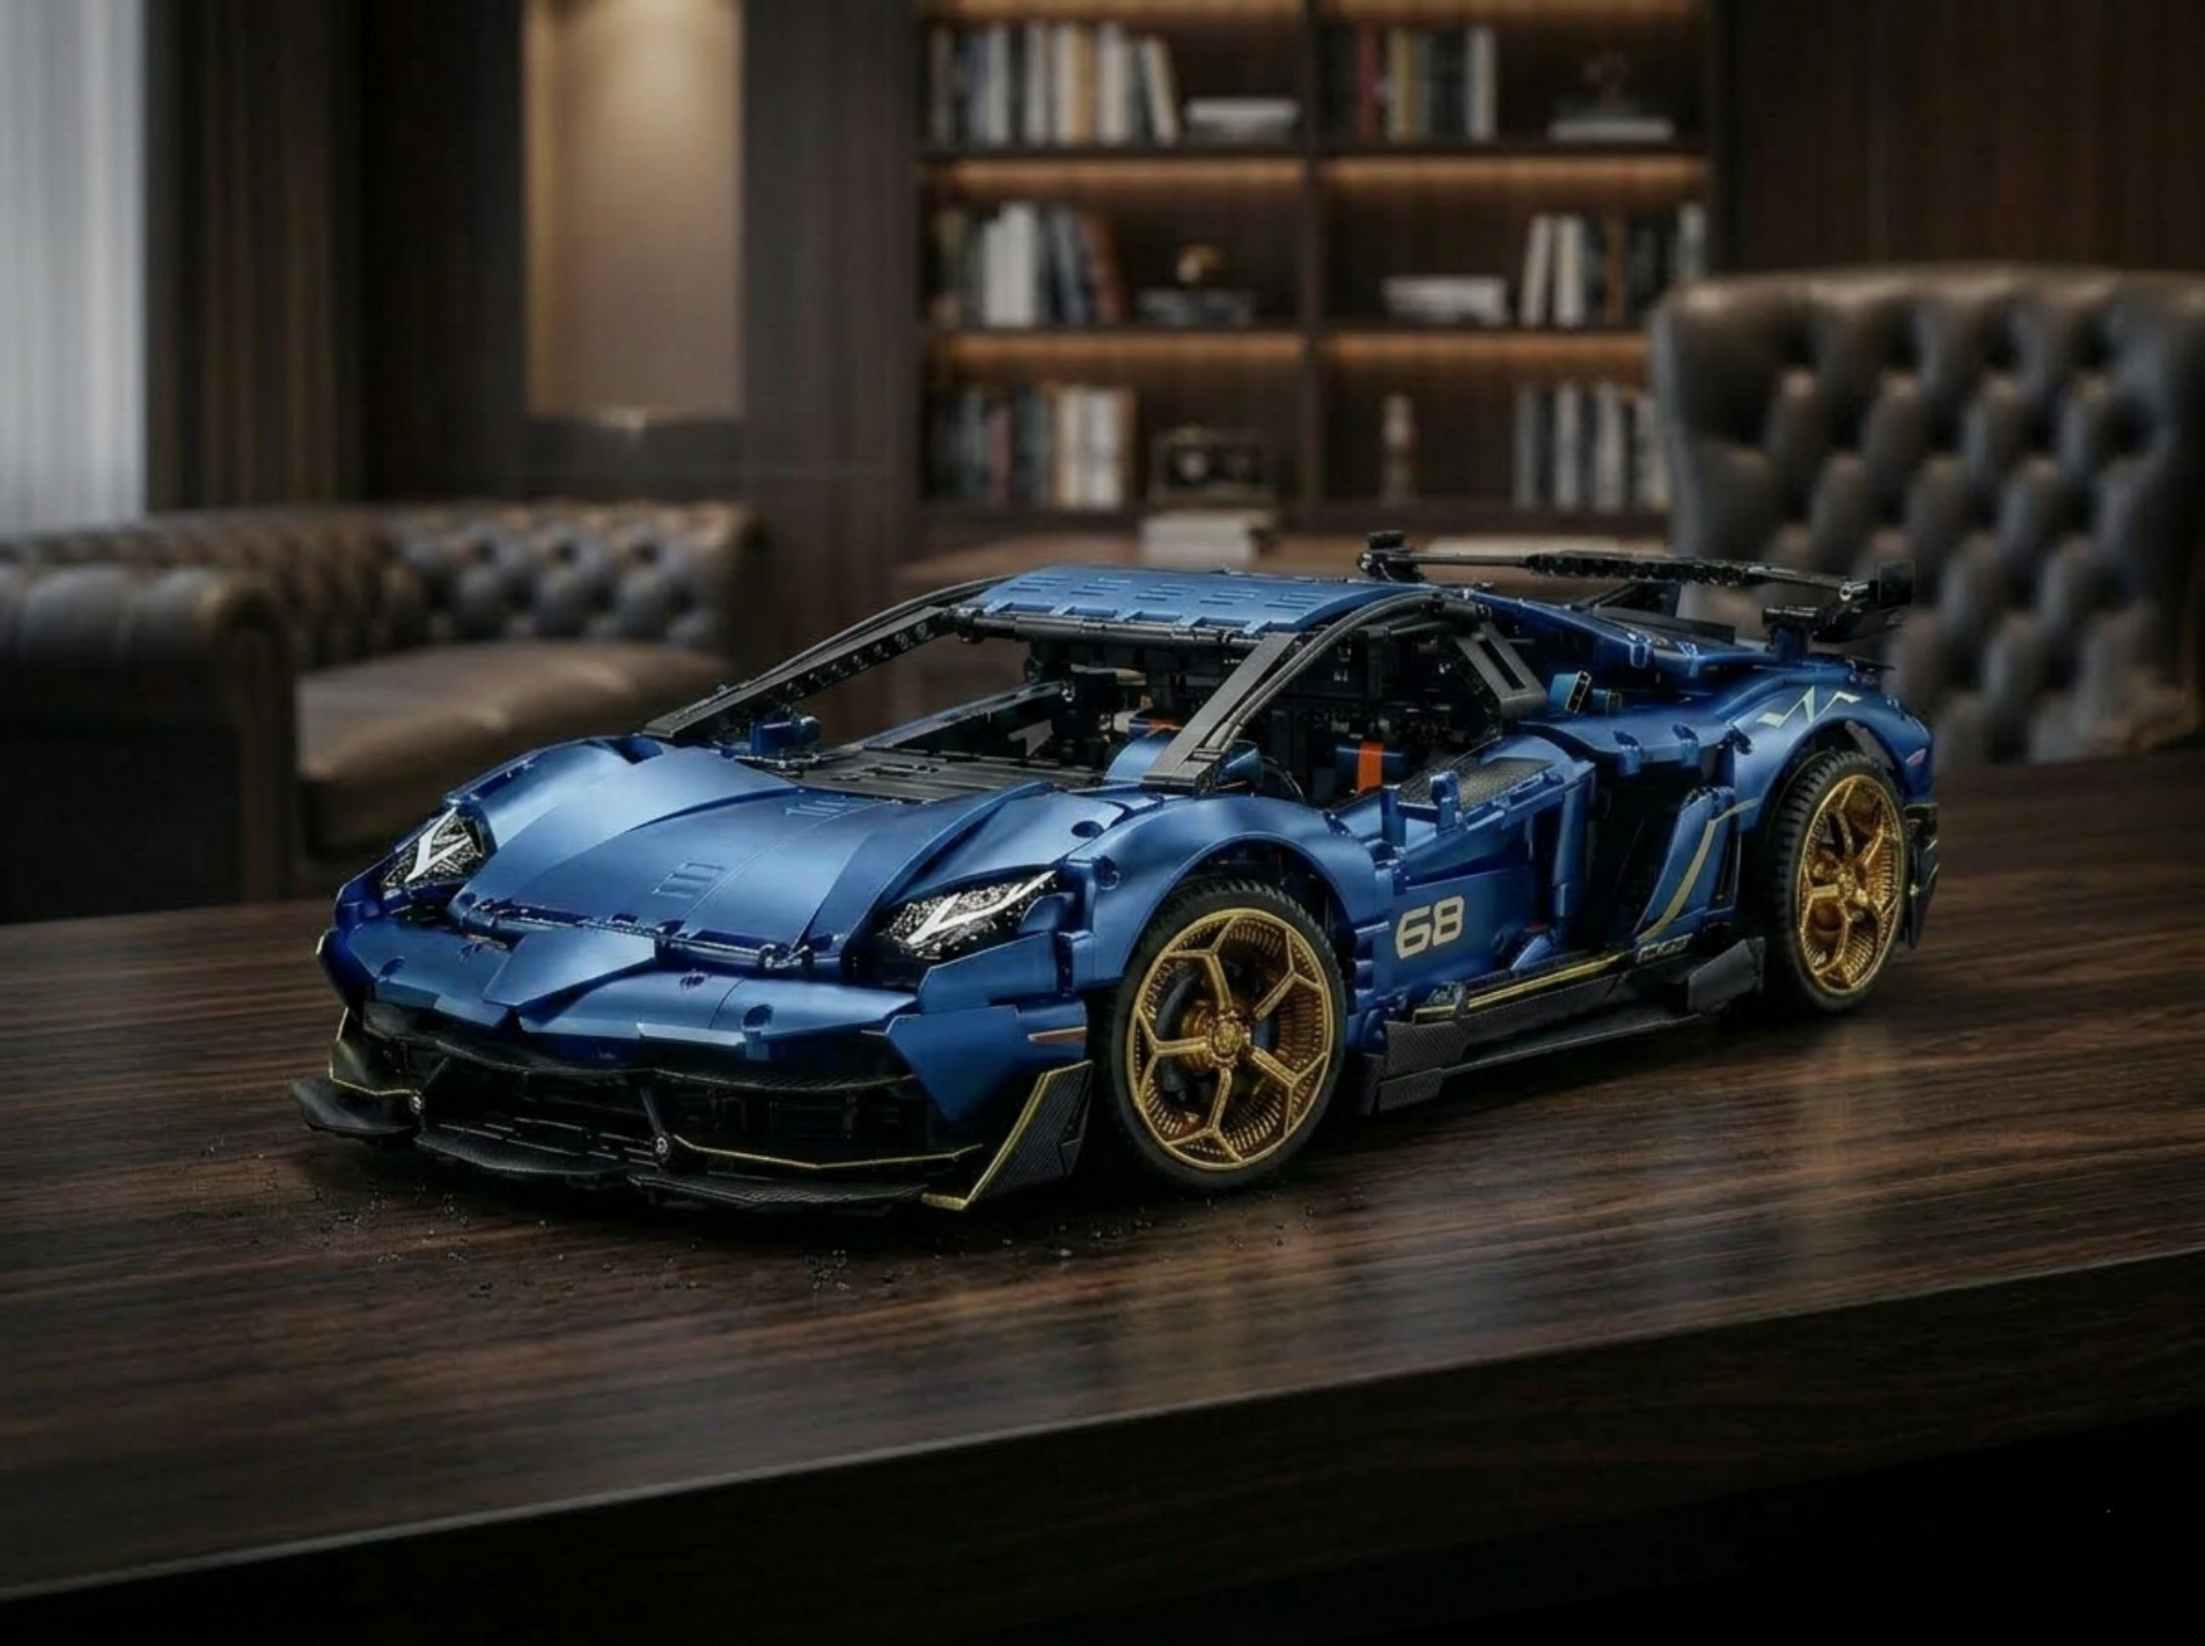
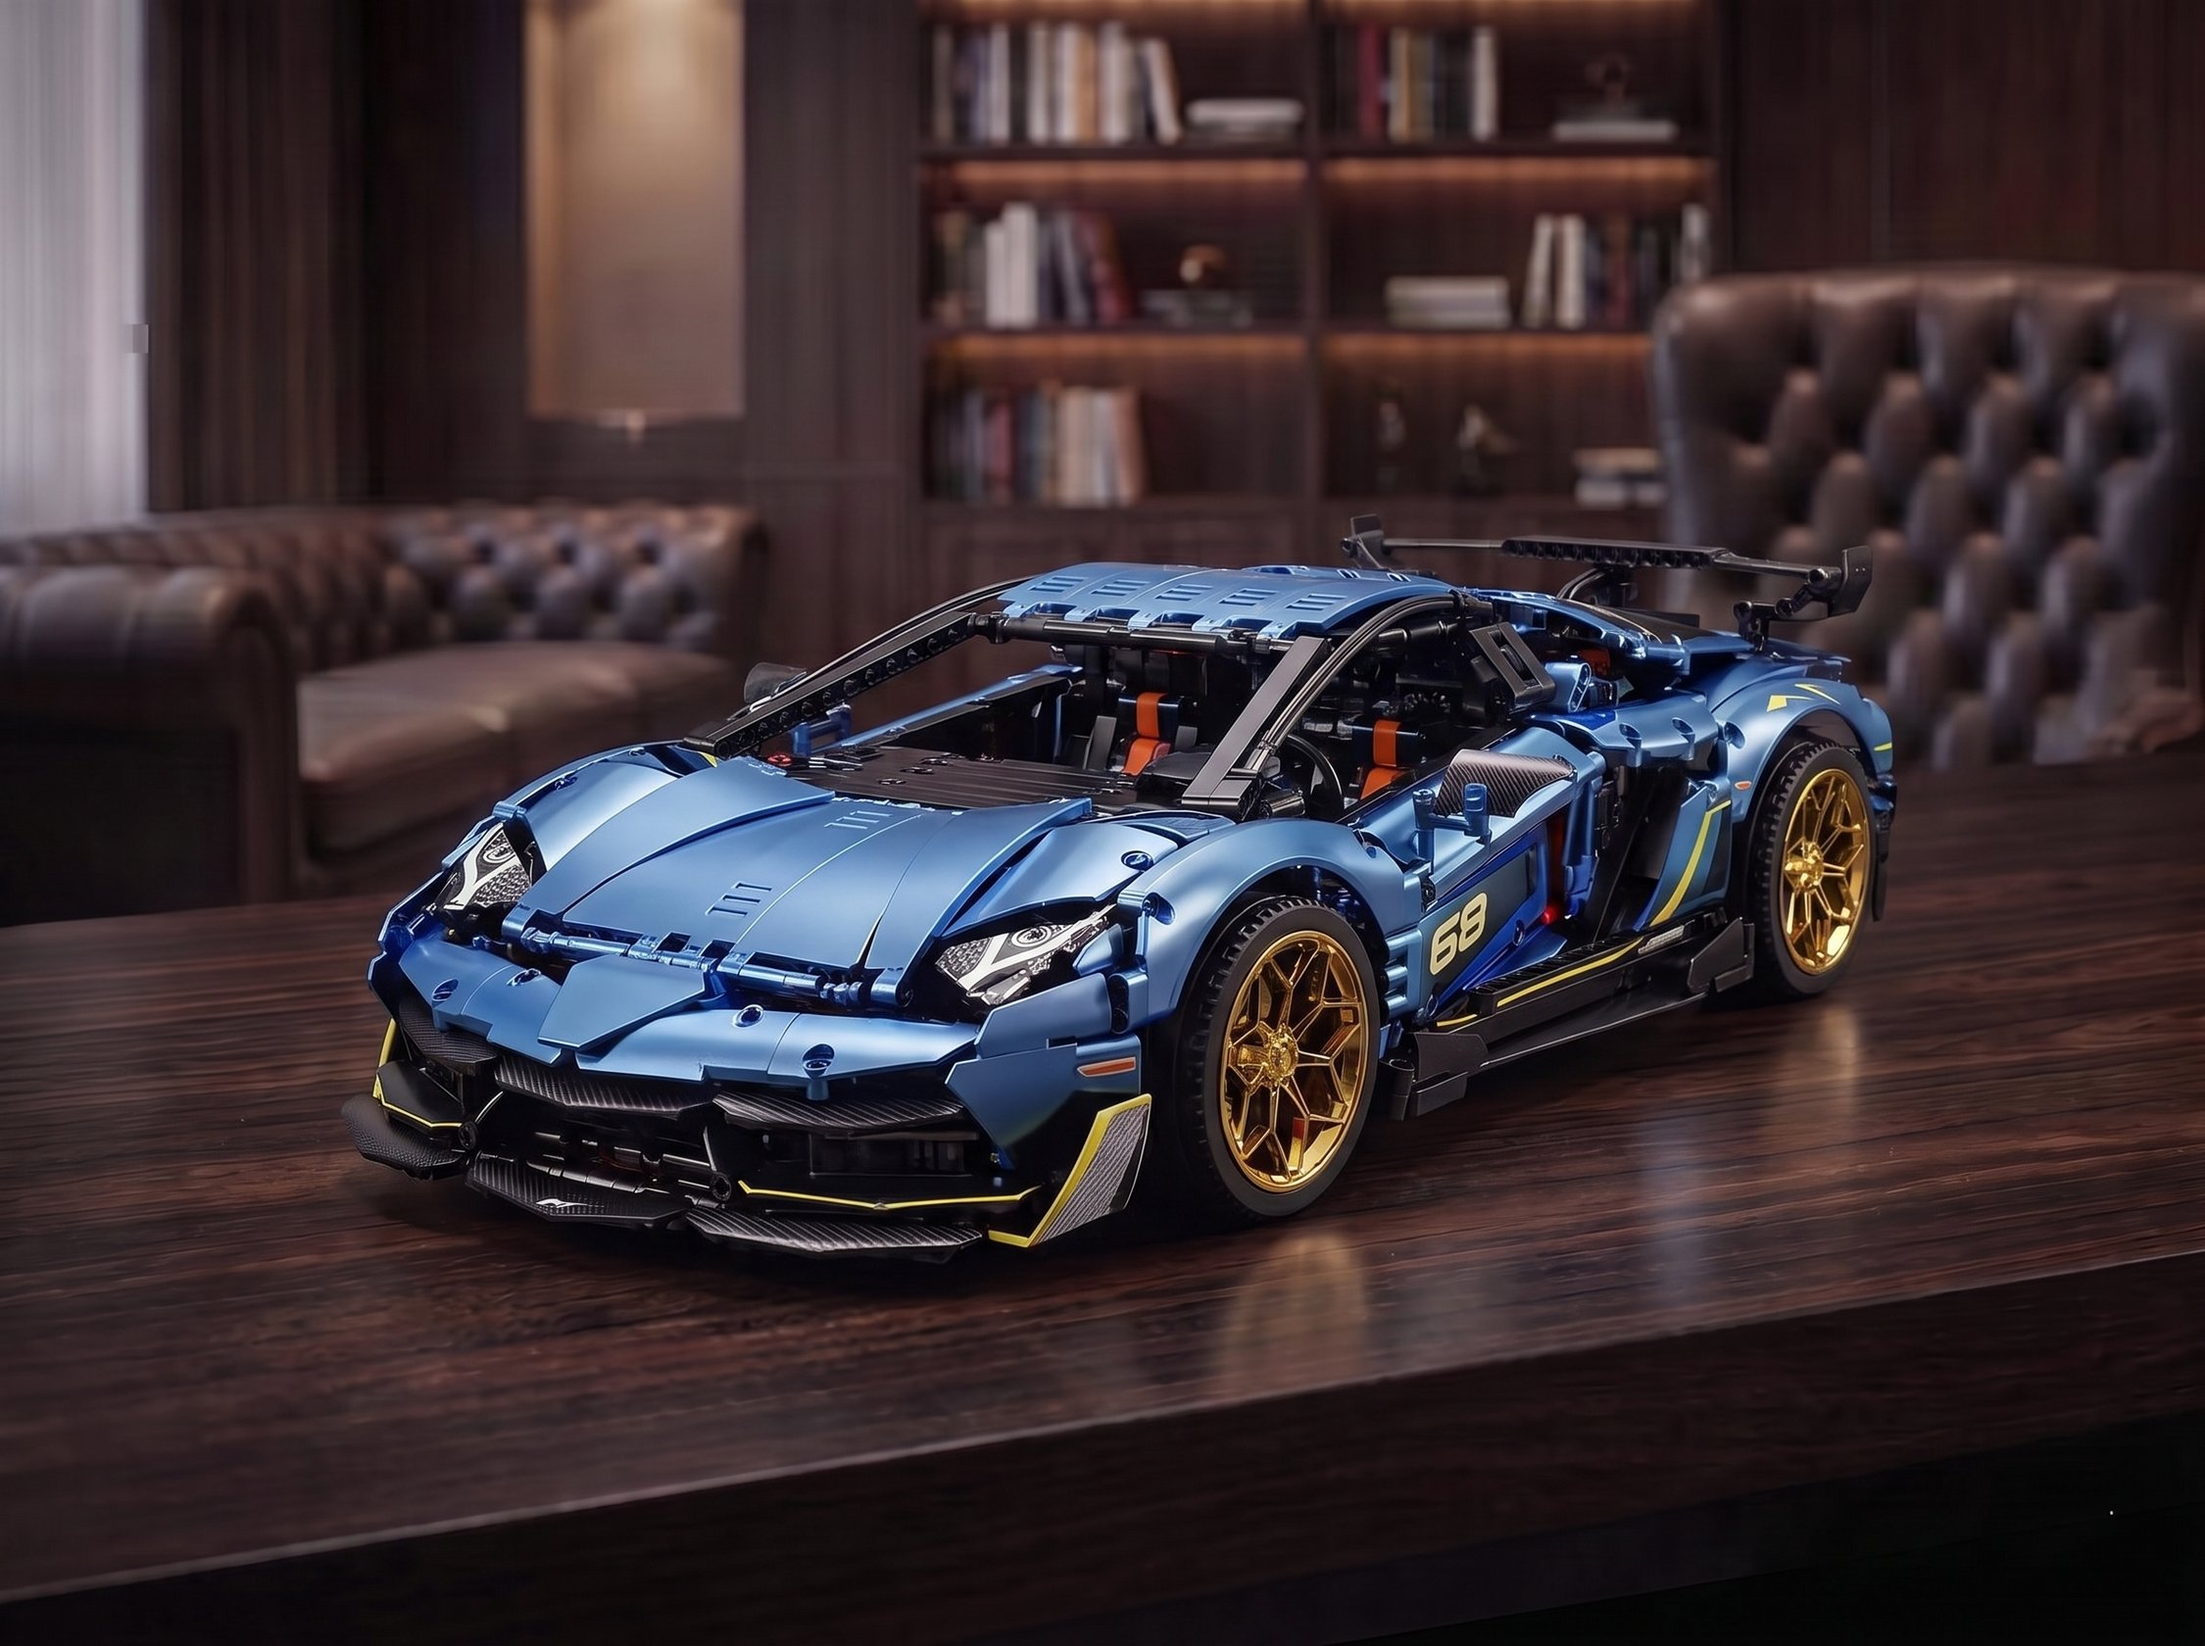
Replace S18-017 cover and add gallery photos
User approved only the front/rear/motor shots out of the batch and
asked for the new front render to become the cover; the old side and
box shots (box came from a 220x220 source) were dropped. This closes
out the last product in the catalog gallery project — all 17 SKUs now
have a correct cover and gallery.

diff --git a/site/src/lib/mockCatalog.ts b/site/src/lib/mockCatalog.ts
@@ -17,5 +17,5 @@ export const mockCatalog: CatalogProduct[] = [
   { id: 'S18-014', sku: 'S18-014', name: 'Ferrari Enzo', category: 'carro', brand_model: 'Ferrari Enzo', manufacturer: 'KBOX', collection_tag: 'Supercarro', scale: '1:8', piece_count: 4301, sale_price_brl: 1656.7, image_url: '/products/S18-014.jpg', image_urls: ['/products/S18-014-aberto.jpg', '/products/S18-014-motor.jpg', '/products/S18-014-caixa.jpg'], video_url: 'https://otlzxteecaxaolhmwmsc.supabase.co/storage/v1/object/public/product-videos/S18-014-video.mp4', automotive_history: null, dimensions: null, spec_highlights: null, length_cm: null, height_cm: null, width_cm: null, quantity_available: 9 },
   { id: 'S18-015', sku: 'S18-015', name: 'Ferrari SF90 XX Stradale', category: 'carro', brand_model: 'Ferrari SF90 XX', manufacturer: 'GULY', collection_tag: 'Supercarro', scale: '1:8', piece_count: 3639, sale_price_brl: 1564.4, image_url: '/products/S18-015.jpg', image_urls: ['/products/S18-015-frente.jpg', '/products/S18-015-lateral.jpg', '/products/S18-015-traseira.jpg', '/products/S18-015-aberto.jpg'], video_url: null, automotive_history: null, dimensions: null, spec_highlights: null, length_cm: null, height_cm: null, width_cm: null, quantity_available: 20 },
   { id: 'S18-016', sku: 'S18-016', name: 'Land Rover Discovery', category: 'carro', brand_model: 'Land Rover Discovery', manufacturer: 'GULY', collection_tag: 'Off Road', scale: '1:8', piece_count: 4817, sale_price_brl: 2072.0, image_url: '/products/S18-016.jpg', image_urls: ['/products/S18-016-frente.jpg', '/products/S18-016-lateral.jpg', '/products/S18-016-traseira.jpg', '/products/S18-016-detalhe.jpg', '/products/S18-016-caixa.jpg'], video_url: null, automotive_history: null, dimensions: null, spec_highlights: null, length_cm: null, height_cm: null, width_cm: null, quantity_available: 15 },
-  { id: 'S18-017', sku: 'S18-017', name: 'Lamborghini Aventador SVJ', category: 'carro', brand_model: 'Lamborghini Aventador SVJ', manufacturer: 'KBOX', collection_tag: 'Supercarro', scale: '1:8', piece_count: 3811, sale_price_brl: 1656.7, image_url: '/products/S18-017.jpg', image_urls: [], video_url: 'https://otlzxteecaxaolhmwmsc.supabase.co/storage/v1/object/public/product-videos/S18-017-video.mp4', automotive_history: null, dimensions: null, spec_highlights: null, length_cm: null, height_cm: null, width_cm: null, quantity_available: 4 },
+  { id: 'S18-017', sku: 'S18-017', name: 'Lamborghini Aventador SVJ', category: 'carro', brand_model: 'Lamborghini Aventador SVJ', manufacturer: 'KBOX', collection_tag: 'Supercarro', scale: '1:8', piece_count: 3811, sale_price_brl: 1656.7, image_url: '/products/S18-017.jpg', image_urls: ['/products/S18-017-traseira.jpg', '/products/S18-017-motor.jpg'], video_url: 'https://otlzxteecaxaolhmwmsc.supabase.co/storage/v1/object/public/product-videos/S18-017-video.mp4', automotive_history: null, dimensions: null, spec_highlights: null, length_cm: null, height_cm: null, width_cm: null, quantity_available: 4 },
 ]

diff --git a/docs/product-gallery-project.md b/docs/product-gallery-project.md
@@ -1,7 +1,9 @@
 # Projeto: galerias de fotos ambientadas dos produtos Studio 18
 
-**Status em 28/08/2026, fim de sessão (encerrada por tamanho de contexto —
-retomar em nova sessão).**
+**Status em 31/08/2026: catálogo completo — todos os 17 produtos (S18-001
+a S18-017) têm capa e galeria corretas.** Ver seção "Próximos passos"
+pra tarefas de manutenção que ainda restam (confirmar migrations rodadas,
+vídeos de produto opcionais).
 
 ## Objetivo
 
@@ -44,7 +46,7 @@ de verdade visual pra cada ângulo.
 | S18-013 | Nissan GTR Liberty Walk | ✅ já estava certa | ✅ 3 fotos (frente, traseira, caixa) | `052` | Marca real GULY preservada |
 | S18-014 | Ferrari Enzo | ✅ já estava certa | ✅ 3 fotos (aberto, motor, caixa) | `054` (galeria) + vídeo: `047` | Material bruto sem referência de traseira/lateral — galeria só com os ângulos que tinham fonte confiável |
 | S18-015 | Ferrari SF90 XX Stradale | ✅ já estava certa | ✅ 4 fotos (frente, lateral, traseira, aberto) | `055` | Sem caixa (sem referência bruta). Frente refeita 1x: rodas saíram amarelas e viradas pra dentro nas duas, corrigido pra cinza claro + geometria de esterço realista |
-| S18-017 | Lamborghini Aventador SVJ | não conferida ainda | ❌ não iniciado | vídeo: `048` | Fotos brutas já em `products-raw/` (behind, box, motor detail, other angle). **Vídeo de produto já cadastrado e migration criada** — só falta a galeria de fotos |
+| S18-017 | Lamborghini Aventador SVJ | ✅ trocada por foto gerada | ✅ 2 fotos (traseira, motor) | `056` (galeria+capa) + vídeo: `048` | Usuário aprovou só frente/traseira/motor das 5 geradas; capa antiga substituída pela nova frente. Lateral e caixa (essa vinda de foto bruta 220x220) descartadas |
 | S18-011, S18-016 | Bugatti Tourbillon, Land Rover Discovery | ✅ | ✅ (feitos em sessão anterior a 25/08) | `033`, `030` | — |
 
 **Vídeos de produto cadastrados** (fora da galeria de fotos, feature
@@ -247,24 +249,26 @@ Este ambiente **bloqueia egress para os domínios de storage da Higgsfield**
 
 - Trial converteu com sucesso pro plano Plus mensal ($49/mês, 1.000
   créditos/mês) em 27/08/2026. Checar saldo com `mcp__Higgsfield__balance`
-  ao retomar (não checado nesta sessão, mas o plano cobre com folga o
-  restante do catálogo — só falta 017).
+  ao retomar (não checado desde 27/08, mas o plano cobre com folga
+  qualquer trabalho de manutenção que sobrar).
 
 ## Próximos passos ao retomar
 
-1. **S18-017 (Lamborghini Aventador SVJ)**: fotos brutas já disponíveis
-   (`products-raw/S18-017-lamborghini-aventador-svj/`: behind.webp,
-   box.avif, motor detail.webp, other angle.webp, other side.webp,
-   side.webp — conferir qualidade/resolução antes de gerar). Vídeo já
-   cadastrado (migration `048`).
-2. Depois desse, o catálogo de 17 produtos estará com galeria completa.
-   Vale perguntar ao usuário se quer mais vídeos de produto pros que ainda
-   não têm, ou se quer revisitar algum produto já feito.
-3. Seguir o mesmo pipeline validado (seção acima): ver fotos brutas →
-   comparar com capa atual → corrigir capa só se necessário → identificar
-   técnica certa por tipo de foto → gerar galeria → testar 1 imagem se for
-   técnica nova/incerta → mostrar link pro usuário → usuário baixa e sobe
-   no GitHub → puxar, converter, wire no `mockCatalog.ts` + migration SQL
-   → commit e push → lembrar o usuário de rodar a migration no Supabase.
-4. **Perguntar ao usuário quais migrations (`030`–`055`) ele já rodou no
-   Supabase** — não assumir que produção está sincronizada.
+O catálogo de 17 produtos está com capa e galeria completas. O que pode
+sobrar pra uma próxima sessão:
+
+1. **Perguntar ao usuário quais migrations (`030`–`056`) ele já rodou no
+   Supabase** — não assumir que produção está sincronizada. Essa é a
+   ação mais importante ao retomar, sempre.
+2. Perguntar se o usuário quer mais vídeos de produto pros que ainda não
+   têm (hoje só S18-009, S18-014, S18-017 têm vídeo).
+3. Perguntar se quer revisitar/refinar algum produto já feito (trocar
+   ângulo, gerar foto que faltou por falta de material bruto na época,
+   etc.).
+4. Se qualquer um dos itens acima virar trabalho novo, seguir o mesmo
+   pipeline validado (seção acima): ver fotos brutas → comparar com capa
+   atual → corrigir capa só se necessário → identificar técnica certa por
+   tipo de foto → gerar galeria → testar 1 imagem se for técnica
+   nova/incerta → mostrar link pro usuário → usuário baixa e sobe no
+   GitHub → puxar, converter, wire no `mockCatalog.ts` + migration SQL →
+   commit e push → lembrar o usuário de rodar a migration no Supabase.
